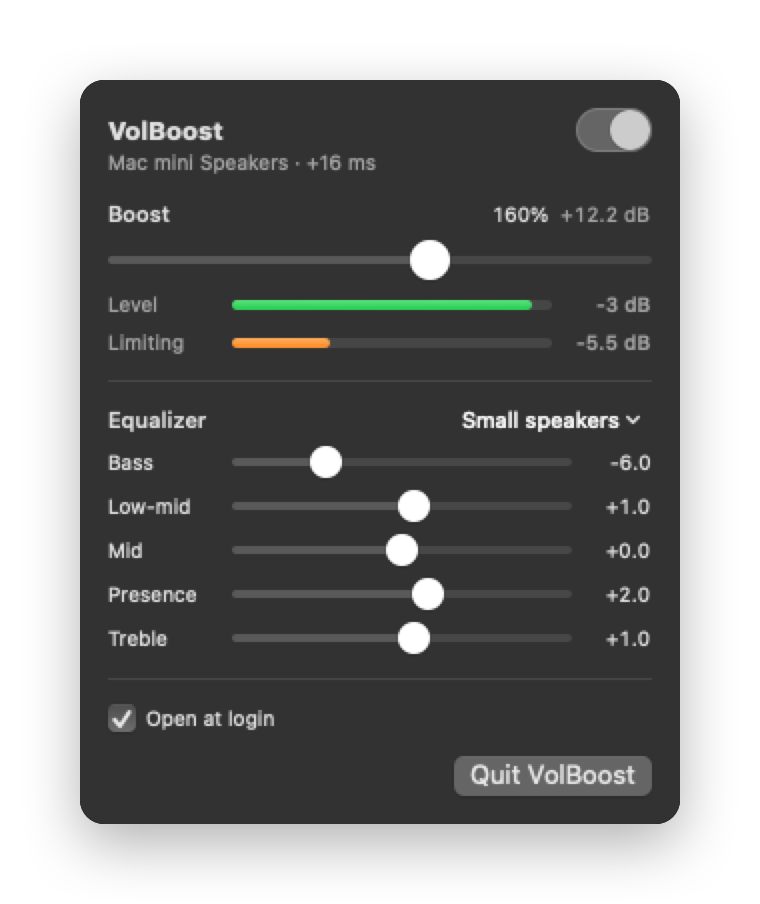
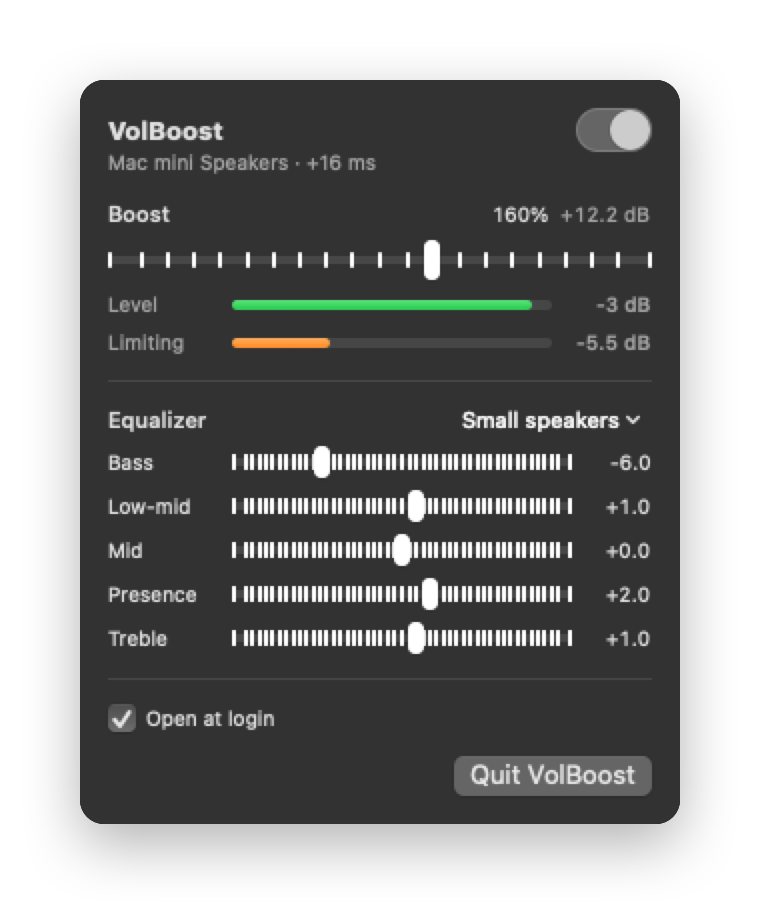
Add releases, website, and fix menu layout shift
- Release workflow: tag v* to build a universal VolBoost.zip and publish it
- build.sh builds universal (arm64 + x86_64), optional VERSION and ZIP
- GitHub Pages site in docs/ with download link and install steps
- README: download, install and release instructions
- Menu: limiting meter turns red instead of inserting a hint row (no layout shift)

diff --git a/docs/index.html b/docs/index.html
@@ -1,0 +1,228 @@
+<!doctype html>
+<html lang="en">
+<head>
+  <meta charset="utf-8">
+  <meta name="viewport" content="width=device-width, initial-scale=1">
+  <title>VolBoost — volume past 100% on your Mac</title>
+  <meta name="description" content="A tiny menu bar app that boosts your whole Mac's volume up to 200%, cleanly, with a 5-band EQ. Free and open source.">
+  <meta property="og:title" content="VolBoost">
+  <meta property="og:description" content="Turn your whole Mac up past 100% — VLC-style volume boost for every app, from the menu bar.">
+  <meta property="og:image" content="https://max-pantom.github.io/volboost/menu-dark.png">
+  <link rel="icon" href="favicon.png">
+  <style>
+    :root {
+      --bg: #f6f5fb;
+      --surface: #ffffff;
+      --text: #17162a;
+      --muted: #5d5b72;
+      --line: rgba(23, 22, 42, 0.1);
+      --accent: #6a35d9;
+      --accent-2: #f25d6b;
+      --glow: rgba(106, 53, 217, 0.18);
+      --code-bg: #efedf7;
+    }
+    @media (prefers-color-scheme: dark) {
+      :root {
+        --bg: #0e0d1a;
+        --surface: #171528;
+        --text: #f1f0fa;
+        --muted: #a6a3bf;
+        --line: rgba(241, 240, 250, 0.1);
+        --accent: #9b6bff;
+        --accent-2: #ff6f7c;
+        --glow: rgba(155, 107, 255, 0.22);
+        --code-bg: #211e36;
+      }
+    }
+
+    * { box-sizing: border-box; }
+    html { -webkit-text-size-adjust: 100%; }
+    body {
+      margin: 0;
+      background: var(--bg);
+      color: var(--text);
+      font: 17px/1.6 -apple-system, BlinkMacSystemFont, "SF Pro Text", "Helvetica Neue", Arial, sans-serif;
+      -webkit-font-smoothing: antialiased;
+    }
+    a { color: var(--accent); }
+    .wrap { max-width: 980px; margin: 0 auto; padding: 0 20px; }
+
+    /* Hero */
+    header {
+      position: relative;
+      overflow: hidden;
+      text-align: center;
+      padding: 72px 0 24px;
+    }
+    header::before {
+      content: "";
+      position: absolute;
+      inset: -40% -20% auto;
+      height: 640px;
+      background: radial-gradient(closest-side, var(--glow), transparent);
+      pointer-events: none;
+    }
+    .app-icon { width: 128px; height: 128px; position: relative; }
+    h1 {
+      font-size: clamp(40px, 7vw, 64px);
+      line-height: 1.05;
+      letter-spacing: -0.03em;
+      margin: 16px 0 12px;
+      position: relative;
+    }
+    .tagline {
+      font-size: clamp(18px, 2.4vw, 22px);
+      color: var(--muted);
+      max-width: 34em;
+      margin: 0 auto 32px;
+      position: relative;
+    }
+    .actions { display: flex; gap: 12px; justify-content: center; flex-wrap: wrap; position: relative; }
+    .btn {
+      display: inline-flex; align-items: center; gap: 10px;
+      padding: 14px 24px;
+      border-radius: 999px;
+      font-weight: 600;
+      text-decoration: none;
+      transition: transform 0.15s ease, box-shadow 0.15s ease;
+    }
+    .btn:hover { transform: translateY(-1px); }
+    .btn-primary {
+      color: #fff;
+      background: linear-gradient(120deg, var(--accent), var(--accent-2));
+      box-shadow: 0 8px 24px var(--glow);
+    }
+    .btn-secondary { color: var(--text); background: var(--surface); border: 1px solid var(--line); }
+    .btn svg { width: 18px; height: 18px; flex: none; }
+    .meta { color: var(--muted); font-size: 14px; margin-top: 14px; position: relative; }
+
+    .shot { display: flex; justify-content: center; margin: 24px 0 8px; }
+    .shot img { width: min(420px, 100%); height: auto; }
+
+    /* Sections */
+    section { padding: 56px 0; border-top: 1px solid var(--line); }
+    h2 { font-size: 30px; letter-spacing: -0.02em; margin: 0 0 24px; }
+    .grid { display: grid; gap: 16px; grid-template-columns: repeat(auto-fit, minmax(220px, 1fr)); }
+    .card {
+      background: var(--surface);
+      border: 1px solid var(--line);
+      border-radius: 16px;
+      padding: 22px;
+    }
+    .card h3 { font-size: 17px; margin: 0 0 6px; }
+    .card p { margin: 0; color: var(--muted); font-size: 15px; }
+
+    ol.steps { padding-left: 1.2em; margin: 0; }
+    ol.steps li { margin-bottom: 10px; }
+    .note {
+      margin-top: 20px;
+      padding: 16px 18px;
+      border-radius: 12px;
+      background: var(--code-bg);
+      color: var(--muted);
+      font-size: 15px;
+    }
+    code, pre {
+      font-family: ui-monospace, "SF Mono", Menlo, monospace;
+      font-size: 14px;
+    }
+    code { background: var(--code-bg); padding: 2px 6px; border-radius: 6px; }
+    pre {
+      background: var(--code-bg);
+      padding: 16px 18px;
+      border-radius: 12px;
+      overflow-x: auto;
+      margin: 0;
+      line-height: 1.5;
+    }
+    pre code { background: none; padding: 0; }
+    .flow { color: var(--muted); }
+
+    footer { padding: 40px 0 56px; border-top: 1px solid var(--line); color: var(--muted); font-size: 14px; text-align: center; }
+  </style>
+</head>
+<body>
+  <header>
+    <div class="wrap">
+      <img class="app-icon" src="icon.png" alt="VolBoost app icon">
+      <h1>VolBoost</h1>
+      <p class="tagline">Turn your whole Mac up past 100%. VLC-style volume boost for every app, right from the menu bar — loud, and still clean.</p>
+      <div class="actions">
+        <a class="btn btn-primary" href="https://github.com/max-pantom/volboost/releases/latest/download/VolBoost.zip">
+          <svg viewBox="0 0 24 24" fill="none" stroke="currentColor" stroke-width="2.2" stroke-linecap="round" stroke-linejoin="round" aria-hidden="true"><path d="M12 4v11m0 0-4.5-4.5M12 15l4.5-4.5M5 20h14"/></svg>
+          Download for macOS
+        </a>
+        <a class="btn btn-secondary" href="https://github.com/max-pantom/volboost">
+          <svg viewBox="0 0 24 24" fill="currentColor" aria-hidden="true"><path d="M12 .5a11.5 11.5 0 0 0-3.64 22.41c.58.1.79-.25.79-.56v-2c-3.2.7-3.88-1.37-3.88-1.37-.52-1.33-1.28-1.69-1.28-1.69-1.05-.72.08-.7.08-.7 1.16.08 1.77 1.19 1.77 1.19 1.03 1.77 2.7 1.26 3.36.96.1-.75.4-1.26.73-1.55-2.55-.29-5.24-1.28-5.24-5.69 0-1.26.45-2.29 1.19-3.1-.12-.29-.52-1.46.11-3.05 0 0 .97-.31 3.17 1.18a11 11 0 0 1 5.77 0c2.2-1.49 3.17-1.18 3.17-1.18.63 1.59.23 2.76.11 3.05.74.81 1.19 1.84 1.19 3.1 0 4.42-2.7 5.39-5.26 5.68.41.36.78 1.06.78 2.14v3.17c0 .31.21.67.8.56A11.5 11.5 0 0 0 12 .5Z"/></svg>
+          View source
+        </a>
+      </div>
+      <p class="meta">Free &amp; open source · macOS 14.2+ · Apple silicon &amp; Intel · ~1 MB</p>
+      <div class="shot">
+        <picture>
+          <source media="(prefers-color-scheme: dark)" srcset="menu-dark.png">
+          <img src="menu-light.png" alt="The VolBoost menu: boost slider at 160%, level and limiting meters, and a 5-band equalizer" width="380" height="452">
+        </picture>
+      </div>
+    </div>
+  </header>
+
+  <main>
+    <section>
+      <div class="wrap">
+        <h2>Louder, without the crackle</h2>
+        <div class="grid">
+          <div class="card">
+            <h3>Up to 200%</h3>
+            <p>Boosts every app at once — browser, Zoom, Spotify, games — using the same volume curve as VLC. That's up to +18 dB.</p>
+          </div>
+          <div class="card">
+            <h3>Stays clean</h3>
+            <p>A lookahead limiter turns peaks down just before they hit, instead of clipping them. No distortion, even at full boost.</p>
+          </div>
+          <div class="card">
+            <h3>5-band EQ</h3>
+            <p>Bass, Low-mid, Mid, Presence and Treble, with presets — including one tuned for small built-in speakers.</p>
+          </div>
+          <div class="card">
+            <h3>Stays out of the way</h3>
+            <p>Lives in the menu bar, follows your output when you plug in headphones, adds ~16 ms of delay and ~1% CPU.</p>
+          </div>
+        </div>
+      </div>
+    </section>
+
+    <section id="install">
+      <div class="wrap">
+        <h2>Install</h2>
+        <ol class="steps">
+          <li><a href="https://github.com/max-pantom/volboost/releases/latest/download/VolBoost.zip">Download VolBoost.zip</a> and drag <strong>VolBoost.app</strong> into your Applications folder.</li>
+          <li>Open it. VolBoost isn't notarized by Apple yet, so macOS will block the first launch — go to <strong>System Settings › Privacy &amp; Security</strong>, scroll down and click <strong>Open Anyway</strong>.</li>
+          <li>Click the speaker in your menu bar and switch VolBoost on. macOS asks for <strong>System Audio Recording</strong> permission — VolBoost needs it to read the audio it boosts. Nothing is recorded or sent anywhere.</li>
+        </ol>
+        <div class="note">
+          Prefer the terminal? This removes the download quarantine flag instead of step 2:
+          <pre><code>xattr -dr com.apple.quarantine /Applications/VolBoost.app</code></pre>
+        </div>
+      </div>
+    </section>
+
+    <section>
+      <div class="wrap">
+        <h2>How it works</h2>
+        <p>VLC goes past 100% by cubing its volume and handing it to its own audio output with no upper limit — but that only works for what VLC plays. VolBoost does the same thing for your whole Mac using Core Audio process taps:</p>
+        <pre class="flow"><code>apps → tap on your output device (originals muted)
+     → EQ → gain (percent³) → lookahead limiter
+     → your speakers or headphones</code></pre>
+        <p>Read the details, build it yourself, or contribute on <a href="https://github.com/max-pantom/volboost">GitHub</a>.</p>
+      </div>
+    </section>
+  </main>
+
+  <footer>
+    <div class="wrap">
+      MIT licensed · Not affiliated with VideoLAN or VLC
+    </div>
+  </footer>
+</body>
+</html>

diff --git a/Sources/VolBoost/VolBoostApp.swift b/Sources/VolBoost/VolBoostApp.swift
@@ -195,17 +195,13 @@ struct BoostView: View {
                         .monospacedDigit()
                 }
                 .font(.caption)
-                Slider(value: $model.percent.snapped(to: 5), in: 100...200)
+                Slider(value: $model.percent, in: 100...200, step: 5)
                 MeterRow(label: "Level", value: (model.levelDb + 48) / 48, tint: .green,
                          text: model.levelDb > -60 ? String(format: "%.0f dB", model.levelDb) : "—")
-                MeterRow(label: "Limiting", value: -model.limitingDb / 18, tint: .orange,
+                // Turns red instead of inserting a hint row, so the panel never changes height.
+                MeterRow(label: "Limiting", value: -model.limitingDb / 18, tint: model.limitingDb < -9 ? .red : .orange,
                          text: model.limitingDb < -0.5 ? String(format: "%.1f dB", model.limitingDb) : "—")
-                if model.limitingDb < -9 {
-                    Text("Limiting hard — lower the boost or cut Bass for a cleaner sound.")
-                        .font(.caption2)
-                        .foregroundStyle(.secondary)
-                        .fixedSize(horizontal: false, vertical: true)
-                }
+                    .help("Red means the limiter is working hard — lower the boost or cut Bass for a cleaner sound.")
             }
             .disabled(!model.enabled)
 
@@ -287,7 +283,7 @@ struct EQView: View {
                     Text(Equalizer.bands[i].name)
                         .font(.caption)
                         .frame(width: 56, alignment: .leading)
-                    Slider(value: $model.eqGains[i].snapped(to: 0.5), in: Equalizer.range)
+                    Slider(value: $model.eqGains[i], in: Equalizer.range, step: 0.5)
                         .controlSize(.small)
                     Text(String(format: "%+.1f", model.eqGains[i]))
                         .font(.caption)
@@ -298,12 +294,5 @@ struct EQView: View {
                 .onTapGesture(count: 2) { model.eqGains[i] = 0 }
             }
         }
-    }
-}
-
-extension Binding where Value == Double {
-    /// Snaps writes to a step without the tick marks `Slider(step:)` draws.
-    func snapped(to step: Double) -> Binding<Double> {
-        Binding(get: { wrappedValue }, set: { wrappedValue = ($0 / step).rounded() * step })
     }
 }

diff --git a/README.md b/README.md
@@ -17,6 +17,16 @@ VolBoost is a tiny menu bar app that boosts system-wide audio up to **200%**
 (+18 dB), with a lookahead limiter so it gets louder without crackling, and a
 small 5-band EQ to rebalance quiet or thin-sounding audio.
 
+## Download
+
+**[Download VolBoost.zip](https://github.com/max-pantom/volboost/releases/latest/download/VolBoost.zip)** — universal (Apple silicon + Intel), macOS 14.2+.
+
+1. Unzip and drag **VolBoost.app** into Applications.
+2. VolBoost isn't notarized yet, so macOS blocks the first launch: open
+   **System Settings › Privacy & Security**, scroll down, click **Open Anyway**.
+   (Or run `xattr -dr com.apple.quarantine /Applications/VolBoost.app`.)
+3. Click the speaker in the menu bar and switch VolBoost on.
+
 ## Features
 
 - **Boost 100–200%** using the same cubic volume curve as VLC
@@ -40,7 +50,8 @@ small 5-band EQ to rebalance quiet or thin-sounding audio.
 open VolBoost.app
 ```
 
-`build.sh` produces an ad-hoc signed `VolBoost.app`. Move it to
+`build.sh` produces a universal, ad-hoc signed `VolBoost.app`
+(`ZIP=1 ./build.sh` also writes `VolBoost.zip`). Move it to
 `/Applications` if you want to use *Open at login*.
 
 The first time you switch VolBoost on, macOS asks for **System Audio
@@ -85,6 +96,18 @@ apps ──► process tap on the default output device (originals muted while t
 | `Sources/DSPCheck/main.swift` | Offline signal checks for the DSP |
 | `Sources/VolBoost/Snapshot.swift` | Renders the README screenshots (`VolBoost.app/Contents/MacOS/VolBoost --snapshot docs`) |
 | `Icon/` | App icon, drawn in code (`Icon/make-icon.sh` regenerates it) |
+
+## Releasing
+
+Push a version tag and the [release workflow](.github/workflows/release.yml)
+builds a universal `VolBoost.zip` and publishes it as a GitHub release:
+
+```sh
+git tag v0.1.0 && git push origin v0.1.0
+```
+
+The website in `docs/` is served by GitHub Pages (Settings › Pages › Deploy
+from branch `main`, folder `/docs`).
 
 ## Testing
 
